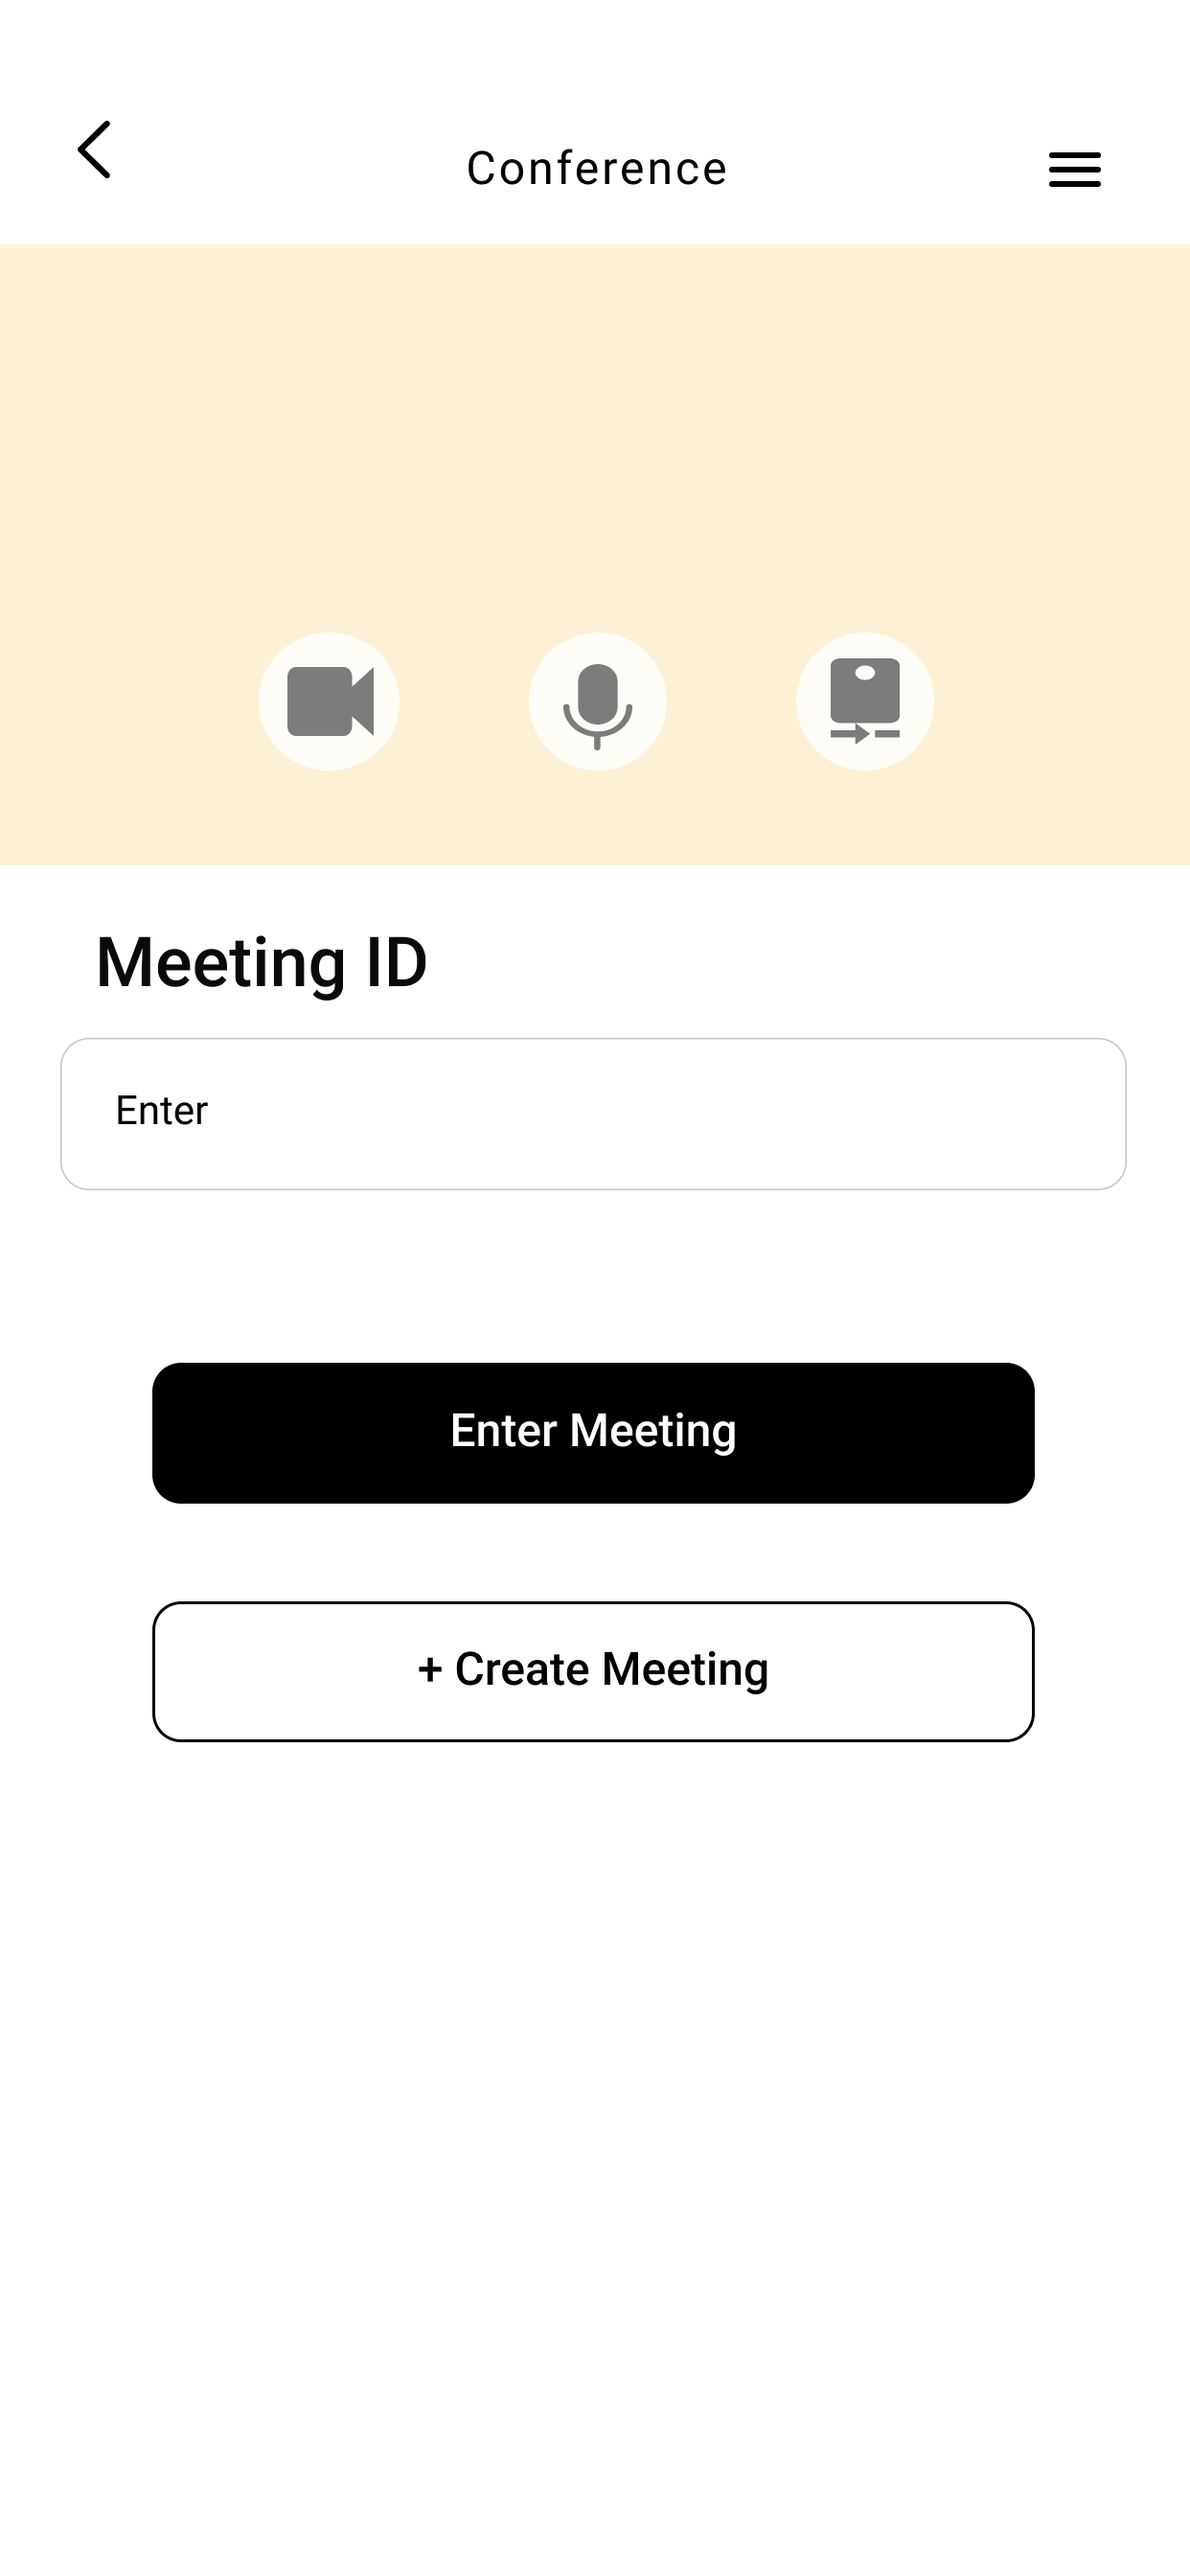
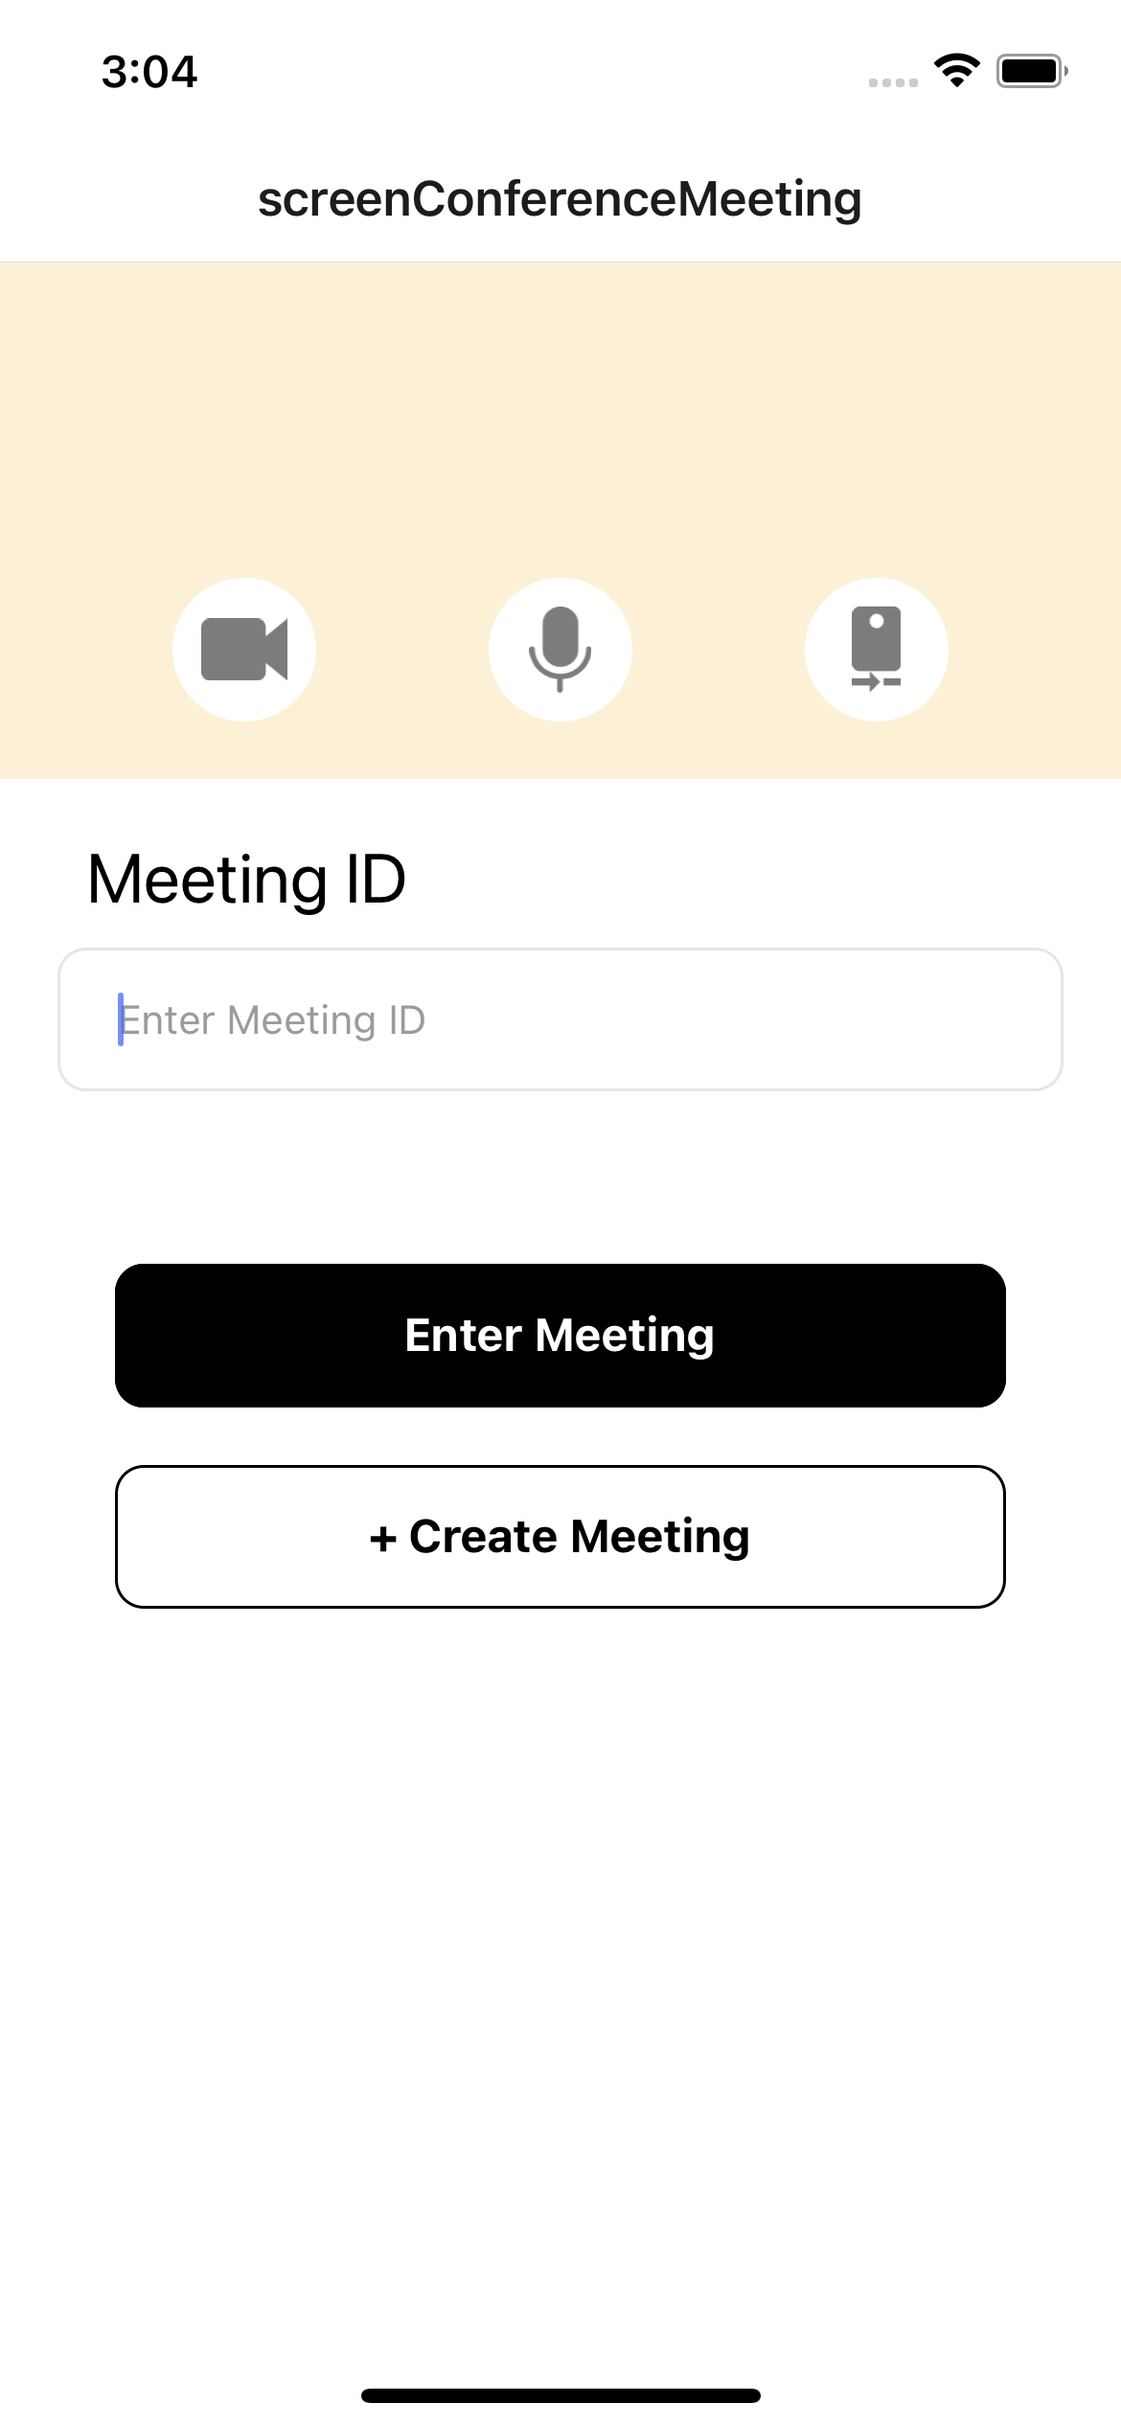
conference meeting screen added

diff --git a/screens/screen-conference-meeting/index.js b/screens/screen-conference-meeting/index.js
@@ -1,14 +1,53 @@
-import React from "react";
+import React, { useState } from "react";
 import {
   Text,
   View,
-  StyleSheet
+  StyleSheet,
+  Image,
+  TextInput,
+  Pressable
 } from "react-native";
 
 const ConferenceMeeting = () => {
+  const [meetingID, setMeetingID] = useState("");
   return (
     <View style={styles.container}>
-      <Text style={styles.heading}>Conference Meeting</Text>
+      <View style={styles.header}>
+        <View style={styles.roundIconContainer}>
+          <Image
+            source={require("./assets/videoIcon.png")}
+            style={styles.icon}
+          />
+        </View>
+        <View style={styles.roundIconContainer}>
+          <Image
+            source={require("./assets/voiceIcon.png")}
+            style={styles.icon}
+          />
+        </View>
+        <View style={styles.roundIconContainer}>
+          <Image
+            source={require("./assets/phoneIcon.png")}
+            style={styles.icon}
+          />
+        </View>
+      </View>
+      <Text style={styles.heading}>Meeting ID</Text>
+      <Input
+        placeholder="Enter Meeting ID"
+        value={meetingID}
+        onChange={setMeetingID}
+        containerStyle={styles.input}
+      />
+      <Button buttonText="Enter Meeting" style={styles.button} hideShadow />
+      <Button
+        buttonText="+ Create Meeting"
+        style={styles.button}
+        hideShadow
+        outlineColor="#000"
+        color="#fff"
+        textColor="#000"
+      />
     </View>
   );
 };
@@ -17,9 +56,189 @@ const styles = StyleSheet.create({
     flex: 1,
     backgroundColor: "#fff"
   },
+  header: {
+    justifyContent: "space-around",
+    alignItems: "flex-end",
+    backgroundColor: "#FCF1D6",
+    height: 180,
+    flexDirection: "row",
+    paddingHorizontal: 30,
+    paddingVertical: 20
+  },
+  roundIconContainer: {
+    width: 50,
+    height: 50,
+    backgroundColor: "#fff",
+    borderRadius: 25,
+    justifyContent: "center",
+    alignItems: "center"
+  },
+  icon: {
+    width: 30,
+    height: 30,
+    resizeMode: "contain"
+  },
   heading: {
-    fontSize: 20
+    fontSize: 24,
+    color: "#000",
+    marginLeft: 30,
+    marginTop: 20
+  },
+  input: {
+    marginHorizontal: 20,
+    marginBottom: 40
+  },
+  button: {
+    marginHorizontal: 40,
+    marginVertical: 10
   }
 });
 
 export default ConferenceMeeting;
+
+const Input = props => {
+  return (
+    <View style={[inputStyles.inputContainer, props.containerStyle]}>
+      {props.text ? (
+        <Text style={inputStyles.inputText}>{props.text}</Text>
+      ) : null}
+
+      <TextInput
+        style={[
+          inputStyles.input,
+          props.style,
+          props.textArea ? inputStyles.textArea : null
+        ]}
+        placeholder={props.placeholder ? props.placeholder : "Enter"}
+        value={props.value}
+        onChangeText={() => props.onChange()}
+        placeholderTextColor={
+          props.placeholderTextColor ? props.placeholderTextColor : "#9B9B9B"
+        }
+        editable={props.editable !== false}
+        autoCapitalize="none"
+        autoCorrect={false}
+        multiline={props.textArea ? true : false}
+      />
+      {props.errorText ? (
+        <Text style={inputStyles.error}>{props.errorText}</Text>
+      ) : null}
+      {props.icon ? (
+        <Image
+          source={props.icon}
+          style={
+            props.text ? inputStyles.iconWithText : inputStyles.iconWithoutText
+          }
+        />
+      ) : null}
+      <View style={styles.children}>{props.children}</View>
+    </View>
+  );
+};
+
+const inputStyles = StyleSheet.create({
+  inputContainer: {
+    flexDirection: "column",
+    justifyContent: "center"
+  },
+  inputText: {
+    fontSize: 14,
+    marginLeft: 20,
+    color: "#111112"
+  },
+  input: {
+    borderWidth: 1,
+    borderColor: "#e6e6e6",
+    borderRadius: 10,
+    padding: 10,
+    paddingLeft: 20,
+    marginVertical: 10,
+    width: "100%",
+    height: 50,
+    color: "#000"
+  },
+  iconWithText: {
+    position: "absolute",
+    right: 30,
+    top: 48,
+    width: 15,
+    height: 15,
+    resizeMode: "contain"
+  },
+  iconWithoutText: {
+    position: "absolute",
+    right: 30,
+    top: 28,
+    width: 15,
+    height: 15,
+    resizeMode: "contain"
+  },
+  textArea: {
+    height: 150
+  },
+  children: {}
+});
+
+const Button = params => {
+  const backgroundColor = params.color || "#000";
+  const textColor = params.textColor || "#fff";
+  const btnStyle = {
+    backgroundColor: backgroundColor,
+    borderColor: params.outlineColor || backgroundColor,
+    borderWidth: 1
+  };
+  const btnText = {
+    color: textColor
+  };
+  return (
+    <View style={[buttonStyles.btnContainer, params.style]}>
+      <View style={!params.hideShadow ? buttonStyles.shadowContainer : null}>
+        <Pressable
+          style={[buttonStyles.btn, btnStyle]}
+          onPress={params.onPress}>
+          <Text style={[buttonStyles.btnText, btnText]}>
+            {params.buttonText}
+          </Text>
+          <View style={styles.childrenContainer}>{params.children}</View>
+        </Pressable>
+      </View>
+    </View>
+  );
+};
+
+const buttonStyles = StyleSheet.create({
+  btnContainer: {
+    justifyContent: "center"
+  },
+  shadowContainer: {
+    shadowColor: "rgba(0, 0, 0, 0.5)",
+    shadowOffset: {
+      width: 0,
+      height: 5
+    },
+    shadowOpacity: 0.5,
+    shadowRadius: 10,
+    elevation: 10,
+    backgroundColor: "#fff",
+    borderRadius: 10
+  },
+  btn: {
+    height: 50,
+    padding: 10,
+    paddingHorizontal: 25,
+    borderRadius: 10,
+    justifyContent: "center",
+    alignItems: "center",
+
+    flexDirection: "row"
+  },
+  btnText: {
+    color: "#fff",
+    fontSize: 16,
+    fontWeight: "bold"
+  },
+  childrenContainer: {
+    justifyContent: "center",
+    alignItems: "center"
+  }
+});

diff --git a/modules/index.js b/modules/index.js
@@ -2,7 +2,7 @@ import mods from "./*/index.js";
 import { getModules } from "./modules.js";
 
 export const modules = getModules(mods);
-export const initialRoute = "screenCloseTransactionWarning";
+export const initialRoute = "screenConferenceMeeting";
 // export const initialRoute = modules[0].value.title;
 export const slices = modules
   .filter(mod => mod.value.slice)
